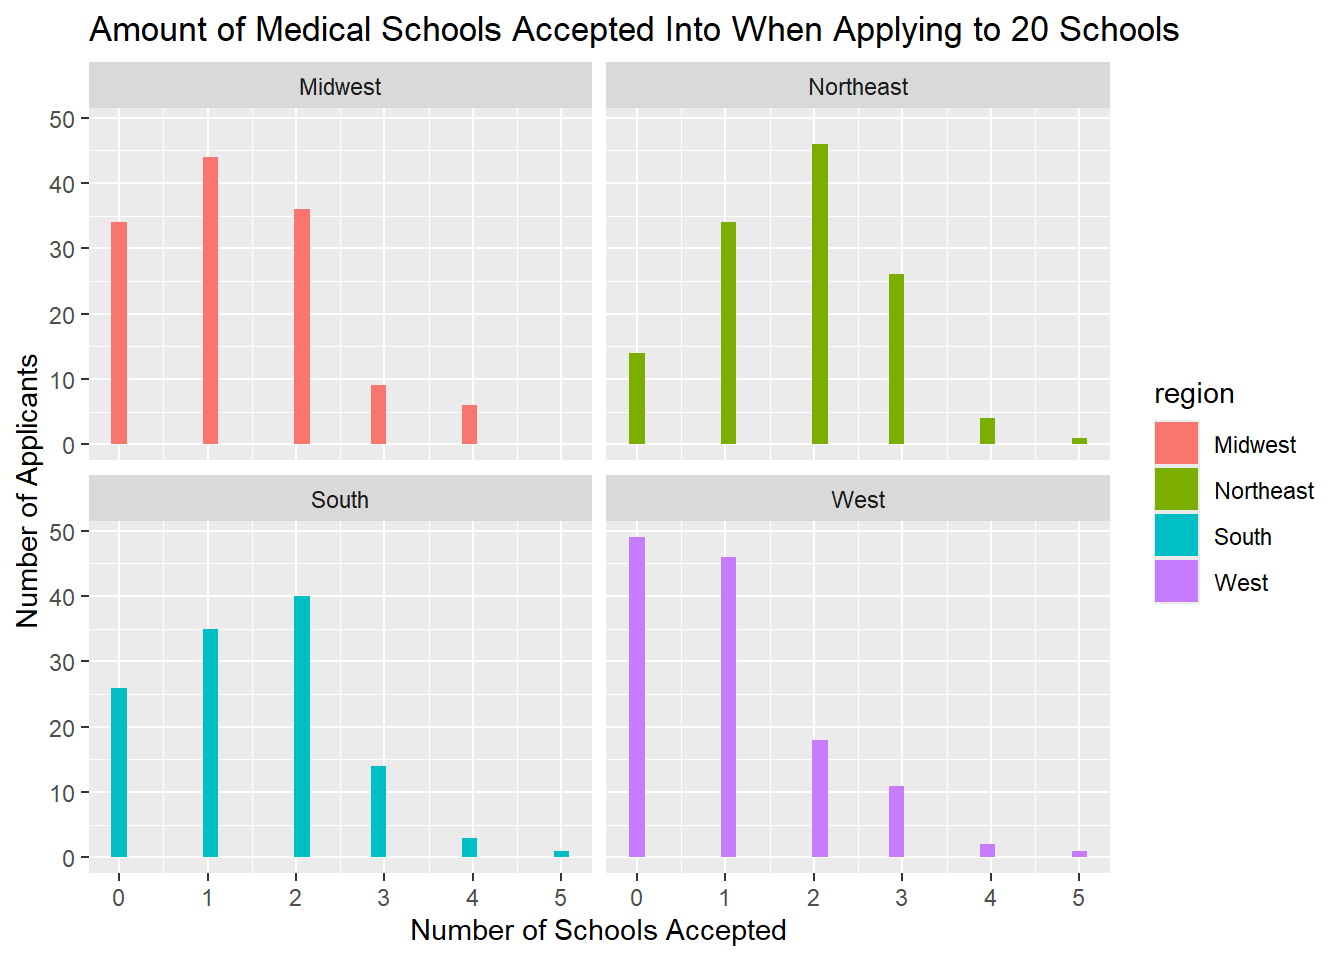
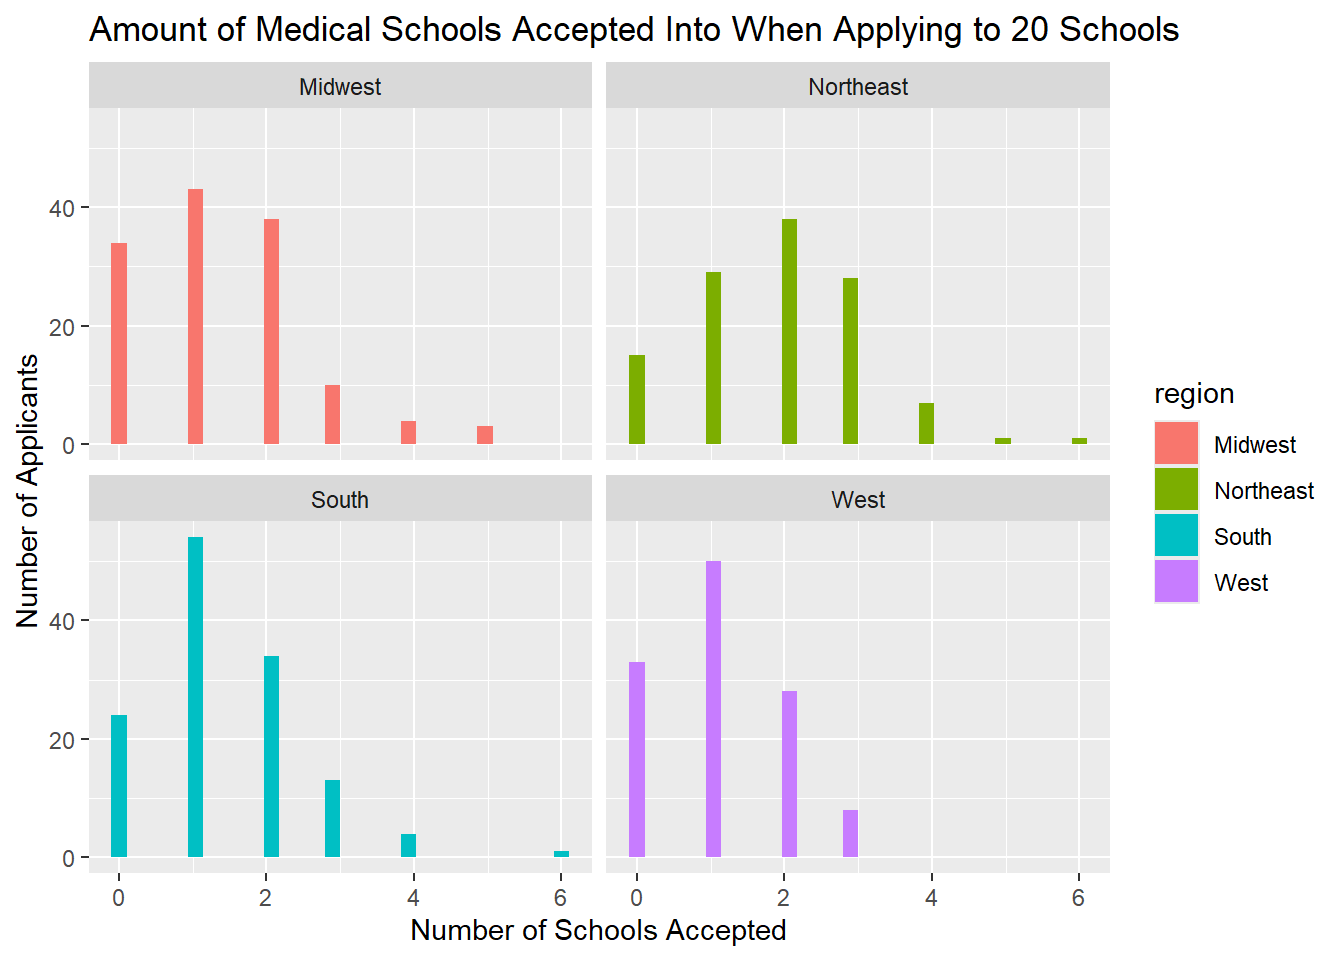
fixed code for the simulation and the first project

diff --git a/docs/mdphdsim.html b/docs/mdphdsim.html
@@ -203,31 +203,33 @@ pre > code.sourceCode > span > a:first-child::before { text-decoration: underlin
 <summary>Code</summary>
 <div class="sourceCode cell-code" id="cb2"><pre class="sourceCode r code-with-copy"><code class="sourceCode r"><span id="cb2-1"><a href="#cb2-1" aria-hidden="true" tabindex="-1"></a><span class="co"># open up the data and calculate acceptance rates</span></span>
 <span id="cb2-2"><a href="#cb2-2" aria-hidden="true" tabindex="-1"></a>medschool <span class="ot">&lt;-</span> <span class="fu">read.xlsx</span>(<span class="st">"mdsimdata.xlsx"</span>, <span class="at">sheet =</span> <span class="st">"Usable"</span>) <span class="sc">|&gt;</span></span>
-<span id="cb2-3"><a href="#cb2-3" aria-hidden="true" tabindex="-1"></a>  <span class="fu">mutate</span>(<span class="at">acceptrate =</span> matriculants<span class="sc">/</span>applicants)</span>
-<span id="cb2-4"><a href="#cb2-4" aria-hidden="true" tabindex="-1"></a></span>
-<span id="cb2-5"><a href="#cb2-5" aria-hidden="true" tabindex="-1"></a>northeast <span class="ot">&lt;-</span>(<span class="st">"CT|DC|MA|MD|NH|NJ|NY|PA|RI|VT"</span>)</span>
-<span id="cb2-6"><a href="#cb2-6" aria-hidden="true" tabindex="-1"></a>south <span class="ot">&lt;-</span> (<span class="st">"AL|AR|FL|GA|KY|KS|LA|NC|NE|OK|SC|TN|TX|VA|WV"</span>)</span>
-<span id="cb2-7"><a href="#cb2-7" aria-hidden="true" tabindex="-1"></a>west <span class="ot">&lt;-</span> (<span class="st">"AZ|CA|CO|HI|NM|NV|OR|UT|WA|WY"</span>)</span>
-<span id="cb2-8"><a href="#cb2-8" aria-hidden="true" tabindex="-1"></a>midwest <span class="ot">&lt;-</span> (<span class="st">"IA|IL|IN|MI|MO|MN|ND|OH|SD|WI"</span>)</span>
-<span id="cb2-9"><a href="#cb2-9" aria-hidden="true" tabindex="-1"></a></span>
-<span id="cb2-10"><a href="#cb2-10" aria-hidden="true" tabindex="-1"></a>reg_medschool <span class="ot">&lt;-</span> medschool <span class="sc">|&gt;</span></span>
-<span id="cb2-11"><a href="#cb2-11" aria-hidden="true" tabindex="-1"></a>  <span class="fu">mutate</span>(<span class="at">state =</span> <span class="fu">str_sub</span>(state, <span class="dv">1</span>,<span class="dv">2</span>)) <span class="sc">|&gt;</span></span>
-<span id="cb2-12"><a href="#cb2-12" aria-hidden="true" tabindex="-1"></a>  <span class="fu">mutate</span>(<span class="at">region =</span> <span class="fu">ifelse</span>(<span class="fu">str_detect</span>(state, midwest) , <span class="st">"Midwest"</span>,</span>
-<span id="cb2-13"><a href="#cb2-13" aria-hidden="true" tabindex="-1"></a>           <span class="fu">ifelse</span>(<span class="fu">str_detect</span>(state, south), <span class="st">"South"</span>, </span>
-<span id="cb2-14"><a href="#cb2-14" aria-hidden="true" tabindex="-1"></a>                  <span class="fu">ifelse</span>(<span class="fu">str_detect</span>(state, west) , <span class="st">"West"</span>, <span class="st">"Northeast"</span></span>
-<span id="cb2-15"><a href="#cb2-15" aria-hidden="true" tabindex="-1"></a>             ))))</span></code><button title="Copy to Clipboard" class="code-copy-button"><i class="bi"></i></button></pre></div>
+<span id="cb2-3"><a href="#cb2-3" aria-hidden="true" tabindex="-1"></a>  <span class="fu">mutate</span>(<span class="at">acceptrate =</span> matriculants<span class="sc">/</span>applicants, </span>
+<span id="cb2-4"><a href="#cb2-4" aria-hidden="true" tabindex="-1"></a>         <span class="at">instate_fact =</span> instatem<span class="sc">/</span>instatea)</span>
+<span id="cb2-5"><a href="#cb2-5" aria-hidden="true" tabindex="-1"></a></span>
+<span id="cb2-6"><a href="#cb2-6" aria-hidden="true" tabindex="-1"></a>northeast <span class="ot">&lt;-</span>(<span class="st">"CT|DC|MA|MD|NH|NJ|NY|PA|RI|VT"</span>)</span>
+<span id="cb2-7"><a href="#cb2-7" aria-hidden="true" tabindex="-1"></a>south <span class="ot">&lt;-</span> (<span class="st">"AL|AR|FL|GA|KY|KS|LA|NC|NE|OK|SC|TN|TX|VA|WV"</span>)</span>
+<span id="cb2-8"><a href="#cb2-8" aria-hidden="true" tabindex="-1"></a>west <span class="ot">&lt;-</span> (<span class="st">"AZ|CA|CO|HI|NM|NV|OR|UT|WA|WY"</span>)</span>
+<span id="cb2-9"><a href="#cb2-9" aria-hidden="true" tabindex="-1"></a>midwest <span class="ot">&lt;-</span> (<span class="st">"IA|IL|IN|MI|MO|MN|ND|OH|SD|WI"</span>)</span>
+<span id="cb2-10"><a href="#cb2-10" aria-hidden="true" tabindex="-1"></a></span>
+<span id="cb2-11"><a href="#cb2-11" aria-hidden="true" tabindex="-1"></a>reg_medschool <span class="ot">&lt;-</span> medschool <span class="sc">|&gt;</span></span>
+<span id="cb2-12"><a href="#cb2-12" aria-hidden="true" tabindex="-1"></a>  <span class="fu">mutate</span>(<span class="at">state =</span> <span class="fu">str_sub</span>(state, <span class="dv">1</span>,<span class="dv">2</span>)) <span class="sc">|&gt;</span></span>
+<span id="cb2-13"><a href="#cb2-13" aria-hidden="true" tabindex="-1"></a>  <span class="fu">mutate</span>(<span class="at">region =</span> <span class="fu">ifelse</span>(<span class="fu">str_detect</span>(state, midwest) , <span class="st">"Midwest"</span>,</span>
+<span id="cb2-14"><a href="#cb2-14" aria-hidden="true" tabindex="-1"></a>           <span class="fu">ifelse</span>(<span class="fu">str_detect</span>(state, south), <span class="st">"South"</span>, </span>
+<span id="cb2-15"><a href="#cb2-15" aria-hidden="true" tabindex="-1"></a>                  <span class="fu">ifelse</span>(<span class="fu">str_detect</span>(state, west) , <span class="st">"West"</span>, <span class="st">"Northeast"</span></span>
+<span id="cb2-16"><a href="#cb2-16" aria-hidden="true" tabindex="-1"></a>             ))))</span></code><button title="Copy to Clipboard" class="code-copy-button"><i class="bi"></i></button></pre></div>
 </details>
 </div>
 <div class="cell">
 <details>
 <summary>Code</summary>
 <div class="sourceCode cell-code" id="cb3"><pre class="sourceCode r code-with-copy"><code class="sourceCode r"><span id="cb3-1"><a href="#cb3-1" aria-hidden="true" tabindex="-1"></a>accepted <span class="ot">&lt;-</span> <span class="cf">function</span>(numschools){</span>
-<span id="cb3-2"><a href="#cb3-2" aria-hidden="true" tabindex="-1"></a>  medschool <span class="sc">|&gt;</span></span>
-<span id="cb3-3"><a href="#cb3-3" aria-hidden="true" tabindex="-1"></a>    <span class="fu">sample_n</span>(numschools) <span class="sc">|&gt;</span></span>
-<span id="cb3-4"><a href="#cb3-4" aria-hidden="true" tabindex="-1"></a>    <span class="fu">mutate</span>(<span class="at">qual =</span> <span class="fu">runif</span>(numschools)) <span class="sc">|&gt;</span></span>
-<span id="cb3-5"><a href="#cb3-5" aria-hidden="true" tabindex="-1"></a>    <span class="fu">mutate</span>(<span class="at">gotin =</span> <span class="fu">ifelse</span>(qual <span class="sc">&lt;</span> acceptrate, <span class="dv">1</span>, <span class="dv">0</span>)) <span class="sc">|&gt;</span></span>
-<span id="cb3-6"><a href="#cb3-6" aria-hidden="true" tabindex="-1"></a>    <span class="fu">summarize</span>(<span class="at">numaccept =</span> <span class="fu">sum</span>(gotin))</span>
-<span id="cb3-7"><a href="#cb3-7" aria-hidden="true" tabindex="-1"></a>}</span></code><button title="Copy to Clipboard" class="code-copy-button"><i class="bi"></i></button></pre></div>
+<span id="cb3-2"><a href="#cb3-2" aria-hidden="true" tabindex="-1"></a>  gen_qual <span class="ot">=</span> <span class="fu">runif</span>(<span class="dv">1</span>)</span>
+<span id="cb3-3"><a href="#cb3-3" aria-hidden="true" tabindex="-1"></a>  medschool <span class="sc">|&gt;</span></span>
+<span id="cb3-4"><a href="#cb3-4" aria-hidden="true" tabindex="-1"></a>    <span class="fu">sample_n</span>(numschools) <span class="sc">|&gt;</span></span>
+<span id="cb3-5"><a href="#cb3-5" aria-hidden="true" tabindex="-1"></a>    <span class="fu">mutate</span>(<span class="at">qual =</span> <span class="fu">rnorm</span>(numschools, <span class="at">mean =</span> gen_qual, <span class="at">sd =</span> <span class="fl">0.1</span>)) <span class="sc">|&gt;</span></span>
+<span id="cb3-6"><a href="#cb3-6" aria-hidden="true" tabindex="-1"></a>    <span class="fu">mutate</span>(<span class="at">gotin =</span> <span class="fu">ifelse</span>(qual <span class="sc">&lt;</span> acceptrate, <span class="dv">1</span>, <span class="dv">0</span>)) <span class="sc">|&gt;</span></span>
+<span id="cb3-7"><a href="#cb3-7" aria-hidden="true" tabindex="-1"></a>    <span class="fu">summarize</span>(<span class="at">numaccept =</span> <span class="fu">sum</span>(gotin))</span>
+<span id="cb3-8"><a href="#cb3-8" aria-hidden="true" tabindex="-1"></a>}</span></code><button title="Copy to Clipboard" class="code-copy-button"><i class="bi"></i></button></pre></div>
 </details>
 </div>
 <div class="cell">
@@ -250,7 +252,7 @@ pre > code.sourceCode > span > a:first-child::before { text-decoration: underlin
 <p><img src="mdphdsim_files/figure-html/unnamed-chunk-4-1.png" class="img-fluid" width="672"></p>
 </div>
 </div>
-<p>This histogram shows how selective medical schools are and that if you are getting into multiple schools you have to be a really good candidate.</p>
+<p>This histogram shows that you have to be really lucky to get into multiple medical schools and it simulates that most people do not get into medical school.</p>
 <div class="cell">
 <details>
 <summary>Code</summary>
@@ -289,7 +291,11 @@ pre > code.sourceCode > span > a:first-child::before { text-decoration: underlin
 <p><img src="mdphdsim_files/figure-html/unnamed-chunk-6-1.png" class="img-fluid" width="672"></p>
 </div>
 </div>
-<p>This histogram makes it seem like schools in the Northeast are more likely to accep people than any other region. It may be helpful to see these graphs represented in proportions to have a more firm stance on how medical school acceptance may differ based on region. This also incorporates a big assumption that being a local to a region makes you a more attractive candidate. Some things I would do to improve my sim in the future is create a function with more variables. The schools would have public or private so then I could do an if else for region preference.</p>
+<p>This histogram makes it seem like schools in the Northeast are more likely to accept people than any other region. It may be helpful to see these graphs represented in proportions to have a more firm stance on how medical school acceptance may differ based on region. This also incorporates a big assumption that being a local to a region makes you a more attractive candidate. Some things I would do to improve my simulation in the future is create a function with more variables. The schools would have public or private so then I could do an if else for region preference.</p>
+<h3 class="anchored">
+References
+</h3>
+<p>Association of American Medical Colleges. <i>Facts: Applicants and Matriculants Data</i>. AAMC, https://www.aamc.org/data-reports/students-residents/data/facts-applicants-and-matriculants.</p>
 
 
 

diff --git a/docs/shades.html b/docs/shades.html
@@ -214,7 +214,15 @@ Foundation Shade Names
 <span id="cb2-7"><a href="#cb2-7" aria-hidden="true" tabindex="-1"></a>  <span class="fu">filter</span>(<span class="sc">!</span><span class="fu">is.na</span>(name)) <span class="sc">|&gt;</span></span>
 <span id="cb2-8"><a href="#cb2-8" aria-hidden="true" tabindex="-1"></a>  <span class="fu">summarize</span>(<span class="at">freq =</span> <span class="fu">n</span>()) <span class="sc">|&gt;</span></span>
 <span id="cb2-9"><a href="#cb2-9" aria-hidden="true" tabindex="-1"></a>  <span class="fu">filter</span>(freq <span class="sc">&gt;</span> <span class="dv">60</span>) <span class="sc">|&gt;</span></span>
-<span id="cb2-10"><a href="#cb2-10" aria-hidden="true" tabindex="-1"></a>  <span class="fu">distinct</span>()</span></code><button title="Copy to Clipboard" class="code-copy-button"><i class="bi"></i></button></pre></div>
+<span id="cb2-10"><a href="#cb2-10" aria-hidden="true" tabindex="-1"></a>  <span class="fu">distinct</span>()</span>
+<span id="cb2-11"><a href="#cb2-11" aria-hidden="true" tabindex="-1"></a></span>
+<span id="cb2-12"><a href="#cb2-12" aria-hidden="true" tabindex="-1"></a><span class="co">#get the colors for the shades</span></span>
+<span id="cb2-13"><a href="#cb2-13" aria-hidden="true" tabindex="-1"></a>hexes <span class="ot">&lt;-</span> shades <span class="sc">|&gt;</span></span>
+<span id="cb2-14"><a href="#cb2-14" aria-hidden="true" tabindex="-1"></a>  <span class="fu">filter</span>(name <span class="sc">==</span> <span class="st">"Deep"</span> <span class="sc">|</span> name <span class="sc">==</span> <span class="st">"Fair"</span> <span class="sc">|</span>  name <span class="sc">==</span> <span class="st">"Light"</span> <span class="sc">|</span></span>
+<span id="cb2-15"><a href="#cb2-15" aria-hidden="true" tabindex="-1"></a>        name <span class="sc">==</span> <span class="st">"Medium"</span> <span class="sc">|</span> name <span class="sc">==</span> <span class="st">"Neutral"</span> <span class="sc">|</span> name <span class="sc">==</span> <span class="st">"Warm"</span>) <span class="sc">|&gt;</span></span>
+<span id="cb2-16"><a href="#cb2-16" aria-hidden="true" tabindex="-1"></a>  <span class="fu">arrange</span>(hex)</span>
+<span id="cb2-17"><a href="#cb2-17" aria-hidden="true" tabindex="-1"></a></span>
+<span id="cb2-18"><a href="#cb2-18" aria-hidden="true" tabindex="-1"></a>hex_v <span class="ot">&lt;-</span> <span class="fu">as.list</span>(hexes[[<span class="st">"hex"</span>]])</span></code><button title="Copy to Clipboard" class="code-copy-button"><i class="bi"></i></button></pre></div>
 </details>
 </div>
 <div class="cell">
@@ -223,16 +231,19 @@ Foundation Shade Names
 <div class="sourceCode cell-code" id="cb3"><pre class="sourceCode r code-with-copy"><code class="sourceCode r"><span id="cb3-1"><a href="#cb3-1" aria-hidden="true" tabindex="-1"></a>shades <span class="sc">|&gt;</span></span>
 <span id="cb3-2"><a href="#cb3-2" aria-hidden="true" tabindex="-1"></a>  <span class="fu">filter</span>(name <span class="sc">==</span> <span class="st">"Deep"</span> <span class="sc">|</span> name <span class="sc">==</span> <span class="st">"Fair"</span> <span class="sc">|</span>  name <span class="sc">==</span> <span class="st">"Light"</span> <span class="sc">|</span></span>
 <span id="cb3-3"><a href="#cb3-3" aria-hidden="true" tabindex="-1"></a>        name <span class="sc">==</span> <span class="st">"Medium"</span> <span class="sc">|</span> name <span class="sc">==</span> <span class="st">"Neutral"</span> <span class="sc">|</span> name <span class="sc">==</span> <span class="st">"Warm"</span>) <span class="sc">|&gt;</span></span>
-<span id="cb3-4"><a href="#cb3-4" aria-hidden="true" tabindex="-1"></a>  <span class="fu">ggplot</span>(<span class="fu">aes</span>(<span class="at">x =</span> hue, <span class="at">y =</span> lightness, <span class="at">color =</span> name)) <span class="sc">+</span></span>
-<span id="cb3-5"><a href="#cb3-5" aria-hidden="true" tabindex="-1"></a>    <span class="fu">geom_point</span>() <span class="sc">+</span></span>
-<span id="cb3-6"><a href="#cb3-6" aria-hidden="true" tabindex="-1"></a>    <span class="fu">labs</span>(</span>
-<span id="cb3-7"><a href="#cb3-7" aria-hidden="true" tabindex="-1"></a>      <span class="at">x =</span> <span class="st">"Hue"</span>,</span>
-<span id="cb3-8"><a href="#cb3-8" aria-hidden="true" tabindex="-1"></a>      <span class="at">y =</span> <span class="st">"Lightness"</span>,</span>
-<span id="cb3-9"><a href="#cb3-9" aria-hidden="true" tabindex="-1"></a>      <span class="at">title =</span> <span class="st">"Hue and Lightness of Makeup Shades with Same Shade Name"</span>, </span>
-<span id="cb3-10"><a href="#cb3-10" aria-hidden="true" tabindex="-1"></a>      <span class="at">color =</span> <span class="st">"Name of Shade"</span></span>
-<span id="cb3-11"><a href="#cb3-11" aria-hidden="true" tabindex="-1"></a>    ) <span class="sc">+</span></span>
-<span id="cb3-12"><a href="#cb3-12" aria-hidden="true" tabindex="-1"></a>    <span class="fu">theme_classic</span>() <span class="sc">+</span></span>
-<span id="cb3-13"><a href="#cb3-13" aria-hidden="true" tabindex="-1"></a>    <span class="fu">facet_wrap</span>(<span class="sc">~</span>name)</span></code><button title="Copy to Clipboard" class="code-copy-button"><i class="bi"></i></button></pre></div>
+<span id="cb3-4"><a href="#cb3-4" aria-hidden="true" tabindex="-1"></a>  <span class="fu">arrange</span>(hex)<span class="sc">|&gt;</span></span>
+<span id="cb3-5"><a href="#cb3-5" aria-hidden="true" tabindex="-1"></a>  <span class="fu">ggplot</span>(<span class="fu">aes</span>(<span class="at">x =</span> hue, <span class="at">y =</span> lightness, <span class="at">color =</span> hex)) <span class="sc">+</span></span>
+<span id="cb3-6"><a href="#cb3-6" aria-hidden="true" tabindex="-1"></a>    <span class="fu">geom_point</span>() <span class="sc">+</span></span>
+<span id="cb3-7"><a href="#cb3-7" aria-hidden="true" tabindex="-1"></a>    <span class="fu">labs</span>(</span>
+<span id="cb3-8"><a href="#cb3-8" aria-hidden="true" tabindex="-1"></a>      <span class="at">x =</span> <span class="st">"Hue"</span>,</span>
+<span id="cb3-9"><a href="#cb3-9" aria-hidden="true" tabindex="-1"></a>      <span class="at">y =</span> <span class="st">"Lightness"</span>,</span>
+<span id="cb3-10"><a href="#cb3-10" aria-hidden="true" tabindex="-1"></a>      <span class="at">title =</span> <span class="st">"Hue and Lightness of Makeup Shades with Same Shade Name"</span>, </span>
+<span id="cb3-11"><a href="#cb3-11" aria-hidden="true" tabindex="-1"></a>      <span class="at">color =</span> <span class="st">"Name of Shade"</span></span>
+<span id="cb3-12"><a href="#cb3-12" aria-hidden="true" tabindex="-1"></a>    ) <span class="sc">+</span></span>
+<span id="cb3-13"><a href="#cb3-13" aria-hidden="true" tabindex="-1"></a>    <span class="fu">theme_classic</span>() <span class="sc">+</span></span>
+<span id="cb3-14"><a href="#cb3-14" aria-hidden="true" tabindex="-1"></a>    <span class="fu">guides</span>(<span class="at">color =</span> <span class="st">"none"</span>) <span class="sc">+</span></span>
+<span id="cb3-15"><a href="#cb3-15" aria-hidden="true" tabindex="-1"></a>    <span class="fu">scale_color_manual</span>(<span class="at">values =</span> hex_v) <span class="sc">+</span></span>
+<span id="cb3-16"><a href="#cb3-16" aria-hidden="true" tabindex="-1"></a>    <span class="fu">facet_wrap</span>(<span class="sc">~</span>name)</span></code><button title="Copy to Clipboard" class="code-copy-button"><i class="bi"></i></button></pre></div>
 </details>
 <div class="cell-output-display">
 <p><img src="shades_files/figure-html/unnamed-chunk-3-1.png" class="img-fluid" width="672"></p>
